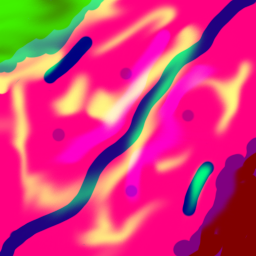
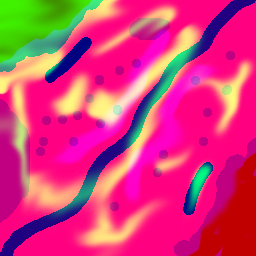
Effekte fürs Terrain.

diff --git a/game/src/map_loader.c b/game/src/map_loader.c
@@ -21,11 +21,18 @@ struct maploader_t maploader;
 BMAP * maploader_terrain_digital = "terrain_digital.png";
 BMAP * maploader_terrain_analogue = "terrain_analogue.png";
 BMAP * maploader_terrain_splatter = "terrain_splatter.png";
+BMAP * maploader_terrain_street = "terrain_street.png";
 
-MATERIAL * maploader_material =
+MATERIAL * maploader_terrain_material =
 {
-  flags = AUTORELOAD;
-  emissive_blue = 255;
+    effect = "terrain.fx";
+    flags = PASS_SOLID | AUTORELOAD;
+}
+
+MATERIAL * maploader_water_material =
+{
+    effect = "water.fx";
+    flags = TRANSLUCENT | AUTORELOAD;
 }
 
 
@@ -59,6 +66,7 @@ void maploader_init()
     bmap_to_mipmap(maploader_terrain_digital);
     bmap_to_mipmap(maploader_terrain_analogue);
     bmap_to_mipmap(maploader_terrain_splatter);
+    bmap_to_mipmap(maploader_terrain_street);
 }
 
 int maploader_grey_to_type(int gray)
@@ -102,9 +110,19 @@ void maploader_load(char const * fileName)
 			var alpha;
 			pixel_to_vec(&col, &alpha, format, pixel);
 
-			((maploader.cells)[maploader.w * y + x]).celltype = maploader_grey_to_type(col.red);
+            int type = maploader_grey_to_type(col.red);
+
+            if(x < 3 || y < 3 || x >= maploader.w-3 || y >= maploader.h -3) {
+                col.red = 0xC0;
+                type = MAPLOADER_TILE_HOLE;
+                pixel = pixel_for_vec(&col, alpha, format);
+                pixel_to_bmap(bmp, x, y, pixel);
+            }
+
+			((maploader.cells)[maploader.w * y + x]).celltype = type;
 			((maploader.cells)[maploader.w * y + x]).vegetation = col.green / 255.0;
 			((maploader.cells)[maploader.w * y + x]).elevation = col.blue;
+
 		}
 	}
 
@@ -115,6 +133,15 @@ void maploader_load(char const * fileName)
 	int size_y = maploader_cellsize * maploader.h + maploader_cellsize - 1;
 
     collision_mode = 0;
+
+    you = ent_createterrain(
+        bmp,
+        vector(0, 0, 0),
+        2,
+        2,
+        size_x * maploader_trisize
+    );
+    you.material = maploader_water_material;
 
     maploader.terrain = ent_createterrain(
         bmp,
@@ -176,14 +203,16 @@ void maploader_load(char const * fileName)
 
     set(maploader.terrain, PASSABLE);
 
-    effect_load(maploader_material, "terrain.fx");
-    maploader.terrain.material = maploader_material;
+    maploader.terrain.material = maploader_terrain_material;
 
     random_seed(1337);
     for(x = 0; x < maploader.w; x++)
     {
         for(y = 0; y < maploader.h; y++)
         {
+            int type = maploader_tile_type(x, y);
+            if(type != MAPLOADER_TILE_DEFAULT)
+                continue;
             if(random(100) < 50)
                 continue;
             float v = maploader_tile_vegetation(x, y);
